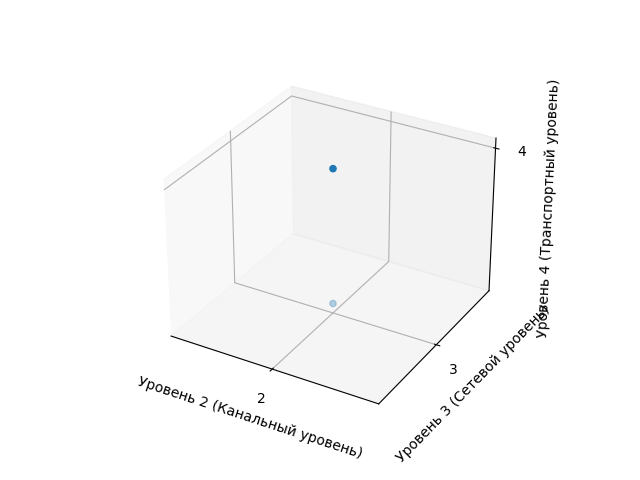
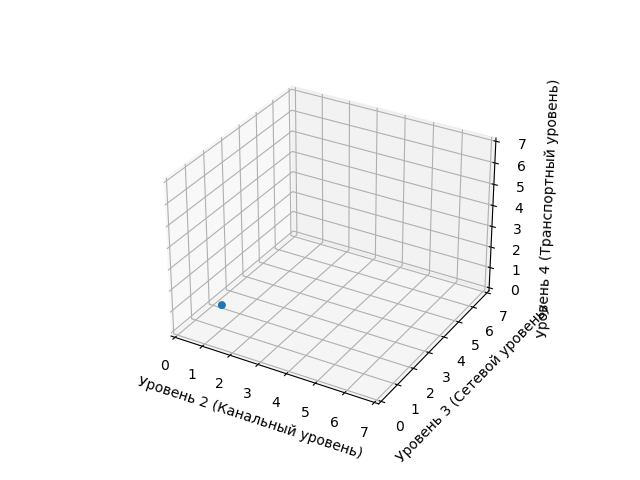
визуализатор трафика закончен, может не хватать заранее заложенных протоколов

diff --git a/FUZZER_2/traffic_view/view_2.py b/FUZZER_2/traffic_view/view_2.py
@@ -52,10 +52,59 @@ osi_layers = {
     'SSH': 7,       # Уровень 7: Прикладной уровень (Secure Shell)
 }
 
+proto_num = {
+     # Уровень 1: Физический уровень
+    'Ether': 1,  # Уровень 2: Канальный уровень
+    '802.11': 2,    # Уровень 2: Канальный уровень (Wi-Fi)
+    'Bluetooth': 3,  # Уровень 2: Канальный уровень (Bluetooth)
+    'DSL': 4,       # Уровень 1: Физический уровень
+    'ISDN': 5,      # Уровень 1: Физический уровень
+
+    # Уровень 2: Канальный уровень
+    'PPP': 6,       # Уровень 2: Канальный уровень (Point-to-Point Protocol)
+    'Frame Relay': 7,  # Уровень 2: Канальный уровень
+    'HDLC': 8,      # Уровень 2: Канальный уровень (High-Level Data Link Control)
+
+    # Уровень 3: Сетевой уровень
+    'IP': 1,        # Уровень 3: Сетевой уровень (Internet Protocol)
+    'IPv4': 2,      # Уровень 3: Сетевой уровень (Internet Protocol version 4)
+    'IPv6': 3,      # Уровень 3: Сетевой уровень (Internet Protocol version 6)
+    'ICMP': 4,      # Уровень 3: Сетевой уровень (Internet Control Message Protocol)
+    'IGMP': 5,      # Уровень 3: Сетевой уровень (Internet Group Management Protocol)
+    'ARP': 6,       # Уровень 3: Сетевой уровень (Address Resolution Protocol)
+
+    # Уровень 4: Транспортный уровень
+    'TCP': 1,       # Уровень 4: Транспортный уровень (Transmission Control Protocol)
+    'UDP': 2,       # Уровень 4: Транспортный уровень (User  Datagram Protocol)
+    'SCTP': 3,      # Уровень 4: Транспортный уровень (Stream Control Transmission Protocol)
+
+    # Уровень 5: Сеансовый уровень
+    'RPC': 4,       # Уровень 5: Сеансовый уровень (Remote Procedure Call)
+    'NetBIOS': 5,   # Уровень 5: Сеансовый уровень
+
+    # Уровень 6: Представительский уровень
+    'TLS': 6,       # Уровень 6: Представительский уровень (Transport Layer Security)
+    'SSL': 7,       # Уровень 6: Представительский уровень (Secure Sockets Layer)
+
+    # Уровень 7: Прикладной уровень
+    'HTTP': 7,      # Уровень 7: Прикладной уровень (Hypertext Transfer Protocol)
+    'HTTPS': 7,     # Уровень 7: Прикладной уровень (HTTP Secure)
+    'FTP': 7,       # Уровень 7: Прикладной уровень (File Transfer Protocol)
+    'SFTP': 7,      # Уровень 7: Прикладной уровень (SSH File Transfer Protocol)
+    'SMTP': 7,      # Уровень 7: Прикладной уровень (Simple Mail Transfer Protocol)
+    'POP3': 7,      # Уровень 7: Прикладной уровень (Post Office Protocol version 3)
+    'IMAP': 7,      # Уровень 7: Прикладной уровень (Internet Message Access Protocol)
+    'DNS': 7,       # Уровень 7: Прикладной уровень (Domain Name System)
+    'DHCP': 7,      # Уровень 7: Прикладной уровень (Dynamic Host Configuration Protocol)
+    'SNMP': 7,      # Уровень 7: Прикладной уровень (Simple Network Management Protocol)
+    'Telnet': 7,    # Уровень 7: Прикладной уровень (Telnet)
+    'SSH': 7,       # Уровень 7: Прикладной уровень (Secure Shell)
+}
+
 # Пример использования
-def get_osi_layer(protocol):
-    """Возвращает номер уровня OSI для данного протокола."""
-    return osi_layers.get(protocol, None)
+def get_proto_layer_number(protocol):
+    """Возвращает номер  протокола для уровня."""
+    return proto_num.get(protocol, None)
 class Unit:
     def __init__(self, ip_src, ip_dst, mac_src, mac_dst, layers, pdu):
         self.ip_src = ip_src
@@ -86,13 +135,27 @@ class NetDot:
         self.y = y
         self.z = z
 
-dump = [Ether()/IP(dst='127.0.0.1'),Ether()/IP(src="192.168.1.1", dst="192.168.1.2")/UDP()/DNS(),Ether()/IP(dst='127.0.0.1')/TCP()] 
+dump = sniff(count=30,prn = lambda x: x.summary())
+
+# dump = [
+#     Ether()/IP(dst='127.0.0.1'),
+#     Ether()/IP(src="192.168.1.1", dst="192.168.1.2")/UDP()/DNS(),
+#     Ether()/IP(dst='127.0.0.1')/TCP(),
+#     Ether()/IP(src="192.168.1.1", dst="192.168.1.2")/TCP(),
+#     Ether()/IPv6(),
+#     Ether()/ICMP(),
+#     Ether()/ARP()
+#     ] 
 
 uniq_dump = []
 for i in dump:
         # .get() в scapy не работает
-        ip_src = getattr(i.__getitem__('IP'), 'src', None)
-        ip_dst = getattr(i.__getitem__('IP'), 'dst', None)
+        try:
+            ip_src = getattr(i.__getitem__('IP'), 'src', None)
+            ip_dst = getattr(i.__getitem__('IP'), 'dst', None)
+        except:
+            ip_src = None
+            ip_dst = None
         mac_src = getattr(i.__getitem__('Ether'), 'src', None) 
         mac_dst = getattr(i.__getitem__('Ether'), 'dst', None)
         layers = i.layers()
@@ -104,9 +167,9 @@ for i in dump:
 netDots = []
 for i in uniq_dump:
     protocols = [layer.__name__ for layer in i.pdu.layers()]
-    x = get_osi_layer(protocols[0]) if len(protocols) > 0 else 0
-    y = get_osi_layer(protocols[1]) if len(protocols) > 1 else 0
-    z = get_osi_layer(protocols[2]) if len(protocols) > 2 else 0
+    x = get_proto_layer_number(protocols[0]) if len(protocols) > 0 else 0
+    y = get_proto_layer_number(protocols[1]) if len(protocols) > 1 else 0
+    z = get_proto_layer_number(protocols[2]) if len(protocols) > 2 else 0
     netdot = NetDot(x=x, y=y, z=z)
     netDots.append(netdot)
 
@@ -127,18 +190,18 @@ ax.set_xlabel('Уровень 2 (Канальный уровень)')
 ax.set_ylabel('Уровень 3 (Сетевой уровень)')
 ax.set_zlabel('Уровень 4 (Транспортный уровень)')
 
+# Установка пределов осей
+ax.set_xlim(0, 7)  # Уровень 2 (Канальный уровень)
+ax.set_ylim(0, 7)  # Уровень 3 (Сетевой уровень)
+ax.set_zlim(0, 7)  # Уровень 4 (Транспортный уровень)
+
 # Установка меток на осях
-# Уровень 2
-ax.set_xticks([2])  # Уровень 2
-ax.set_xticklabels(['2'])  # Метка для уровня 2
+ax.set_xticks(range(0, 8))  # Уровень 2
+ax.set_yticks(range(0, 8))  # Уровень 3
+ax.set_zticks(range(0, 8))  # Уровень 4
 
-# Уровень 3
-ax.set_yticks([3])  # Уровень 3
-ax.set_yticklabels(['3'])  # Метка для уровня 3
-
-# Уровень 4
-ax.set_zticks([4])  # Уровень 4
-ax.set_zticklabels(['4'])  # Метка для уровня 4
+# Добавление сетки
+ax.grid(True)
 
 # Показ графика
 filename = 'traffic_visualization.png'
